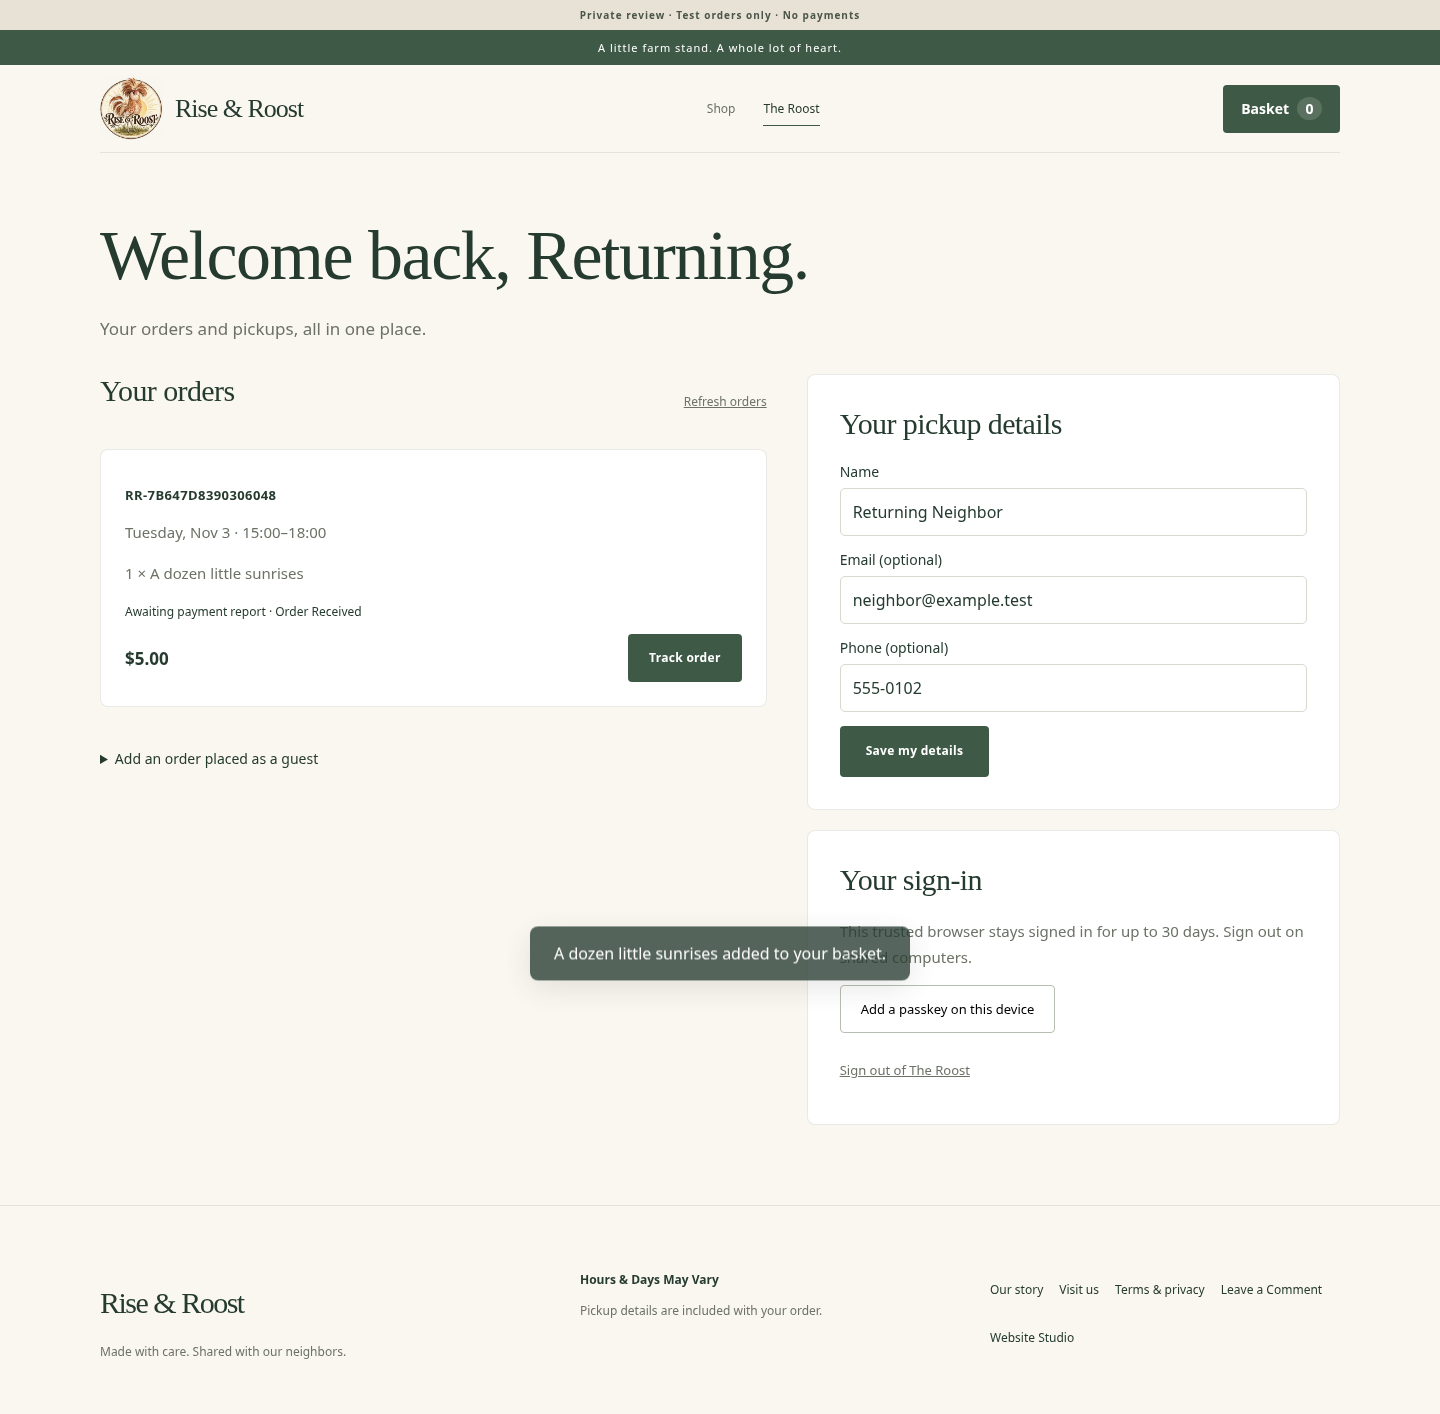
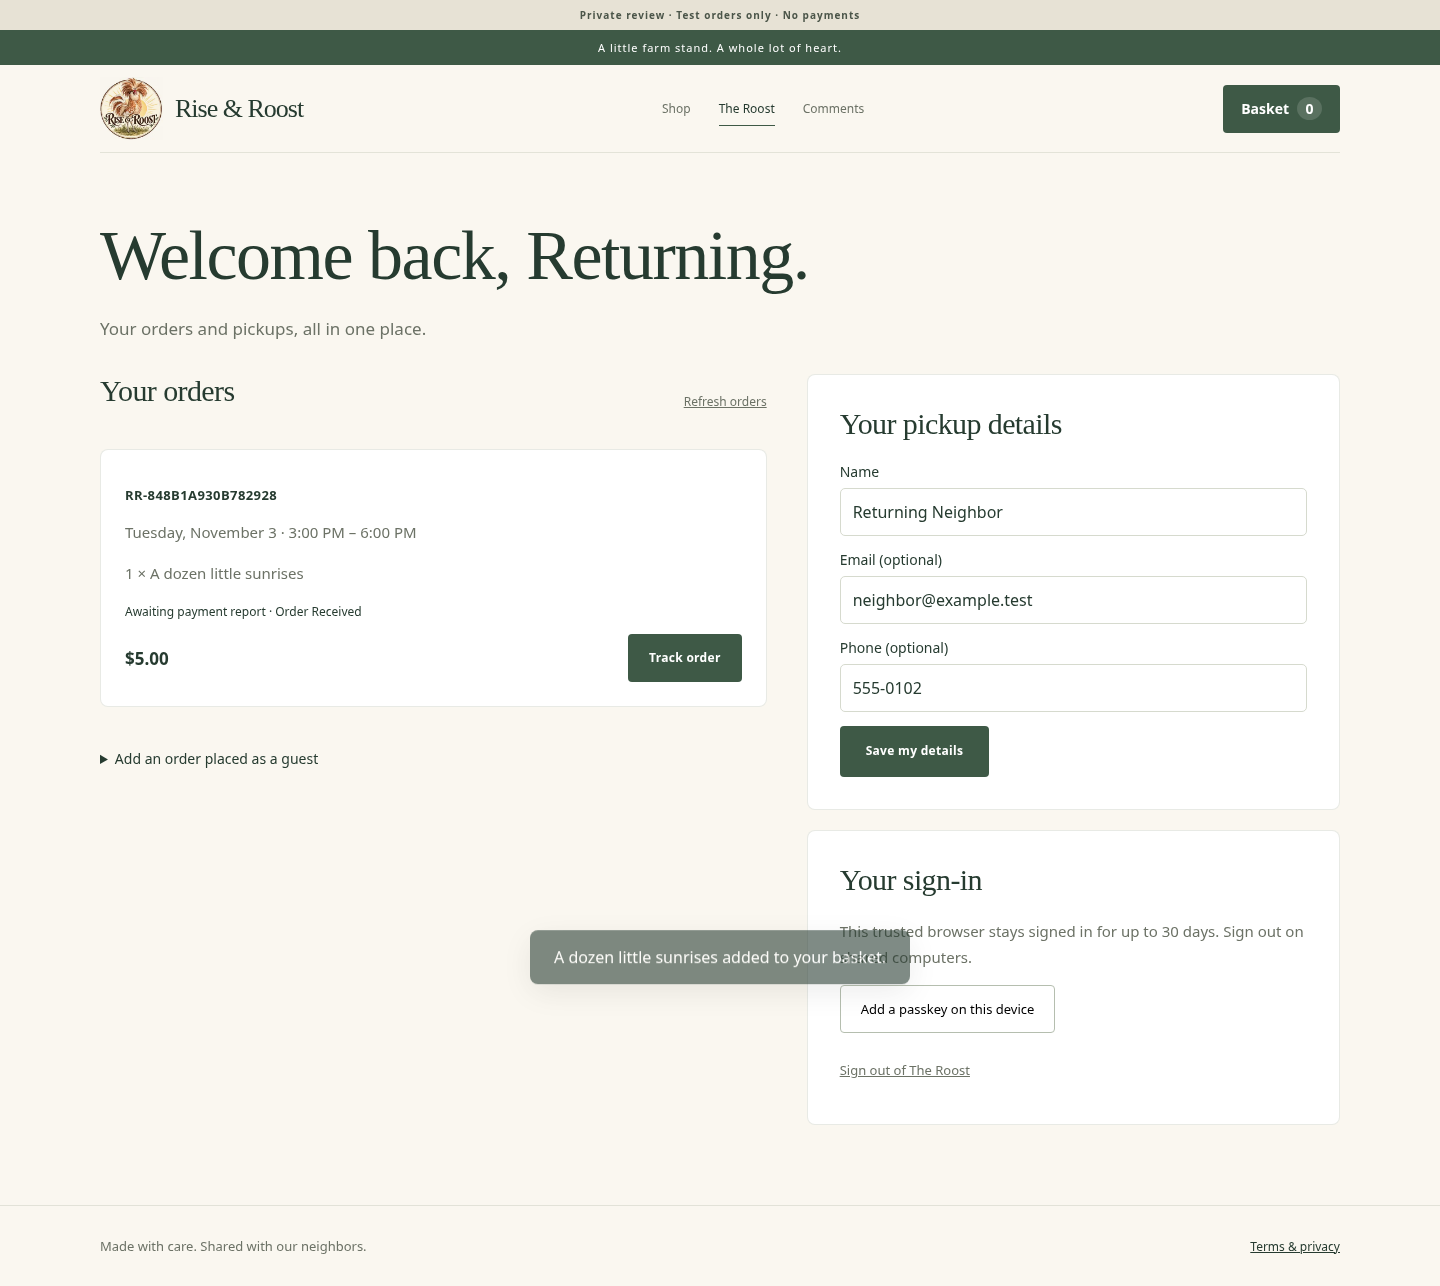
Use 12-hour customer times while preserving Indiana scheduling [verify-experience-preview]

diff --git a/website/docs/customer-experience/README.md b/website/docs/customer-experience/README.md
@@ -8,6 +8,7 @@ This change is isolated on `codex/customer-experience-roost`, based on the exist
 - **Start Shopping** opens `/shop` directly on the catalog. Inner pages have a single Shop / The Roost / Comments navigation with an active-page indicator; the logo returns home. A sticky basket shows its count throughout shopping and remains available on Home when it has items. The compact footer keeps the original closing message and terms link without repeating the navigation. On tested phone sizes, all three welcome choices fit on the first screen.
 - Add a product/variety directly from the catalog. The basket stays prominent, with a count and one checkout containing pickup details, date, deadline, and authoritative total.
 - Checkout, order confirmation, and tracking show **Pickup Location** with **Rise & Roost, 3431 County Rd. 60, Auburn, IN 46706**. Clicking the address opens Apple Maps on Apple devices, the device map handler on Android, or web directions on other desktops. Pickup times and stored order data are unchanged.
+- Customer pickup windows use full weekday/month names and 12-hour AM/PM clocks, for example **Tuesday, November 3 · 3:00 PM – 6:00 PM**. Order-by dates use **Monday, November 2 at 6:00 PM**. Checkout, confirmations, tracking/status/receipt timestamps, refresh clocks, and Roost history share the format without technical zone labels. Stored schedules and Indiana time-zone/DST calculations are unchanged.
 - Check out as a guest, without signing up. Contact fields are limited to a pickup name and optional email/phone. The confirmation retains the private cross-device tracking link.
 - Optionally join **The Roost** using a passkey. It has its own customer identity, saved pickup details, private order history, tracking links, and pickup information. A valid remembered session opens the dashboard directly for up to 30 days. Reauthentication uses a passkey; no email code is sent on each visit.
 - Recover a **preview customer** membership with the one-time recovery key shown at enrollment. Recovery rotates the key and revokes prior sessions. Email is optional and unverified; knowing an email address cannot recover an account or expose its orders. Save a passkey on another device or keep the recovery key in a password manager.
@@ -34,6 +35,8 @@ The database has been created and seeded with the public catalog, its existing i
 The existing Cloudflare token authenticated successfully. No credential value was displayed or replaced. The simplified Home/Shop update was deployed only to the preview on October 29, 2026 at 2:59 PM EDT. Deployment `3f6e8b8d-6f4c-403e-b100-edc28969b211`, version `e1167a96-8502-4f58-b4c6-0ab37f7d2ec1`, contains application source `a07434bd68f0873e781539904691f3db3ec713c1`. Only `app.mjs` and `customer.css` changed in the uploaded public assets; no D1 migration or workspace write was performed. All six bindings remain unchanged, including the separate D1 UUID, both review/experience flags, and disabled email. workers.dev is enabled; no custom domain was configured. The [landing preservation check](landing-preservation.json) verifies every one of the 125 original workspaces and all 12 preview workspaces that existed before this update are unchanged, along with original beta deployment/settings.
 
 The subsequent pickup-address-only update is deployment `31cbd117-86c6-435f-82d4-e894dbf323a9`, version `e4844db0-0c3e-403f-aa5f-a121f3be73f6`. Its four public asset changes add the same address block to checkout, confirmation, and tracking. The existing 125 original workspaces and 23 preview workspaces, original beta deployment/settings, and six preview bindings remain unchanged. Local guest checkout/address/directions checks passed across all five browser profiles; the opt-in PR checks verify the hosted update. No D1 writes or migrations were performed for the display change.
+
+The subsequent customer time-format update is deployment `84d56c71-f8d8-41df-806c-1cf87cc77041`, version `c62cb140-5ec7-46c3-a240-bad8071ed1c5`. It changes three public JavaScript assets and the inactive email template's pickup label only. Email remains disabled. All 125 original workspace rows, all 34 preview workspaces present before the update, original beta deployment/settings, and preview bindings remain unchanged. Local backend checks (66) and customer journeys (15 across five profiles) pass, including midnight/noon, daylight-saving offsets, a 24-hour browser locale, and a device time zone different from Indiana. The opt-in PR checks verify the deployed format.
 
 This cloud environment's egress policy blocks direct requests to the new hostname, so hosted acceptance runs on GitHub's runner with normal HTTPS verification. It checks deployed asset hashes, passkey registration/sign-in, remembered sessions, guest/member checkout, tracking/payment reporting, and owner-only comment moderation. All mutations use fresh synthetic private workspaces; neither the review landing workspace nor the existing beta is a test-data target.
 
